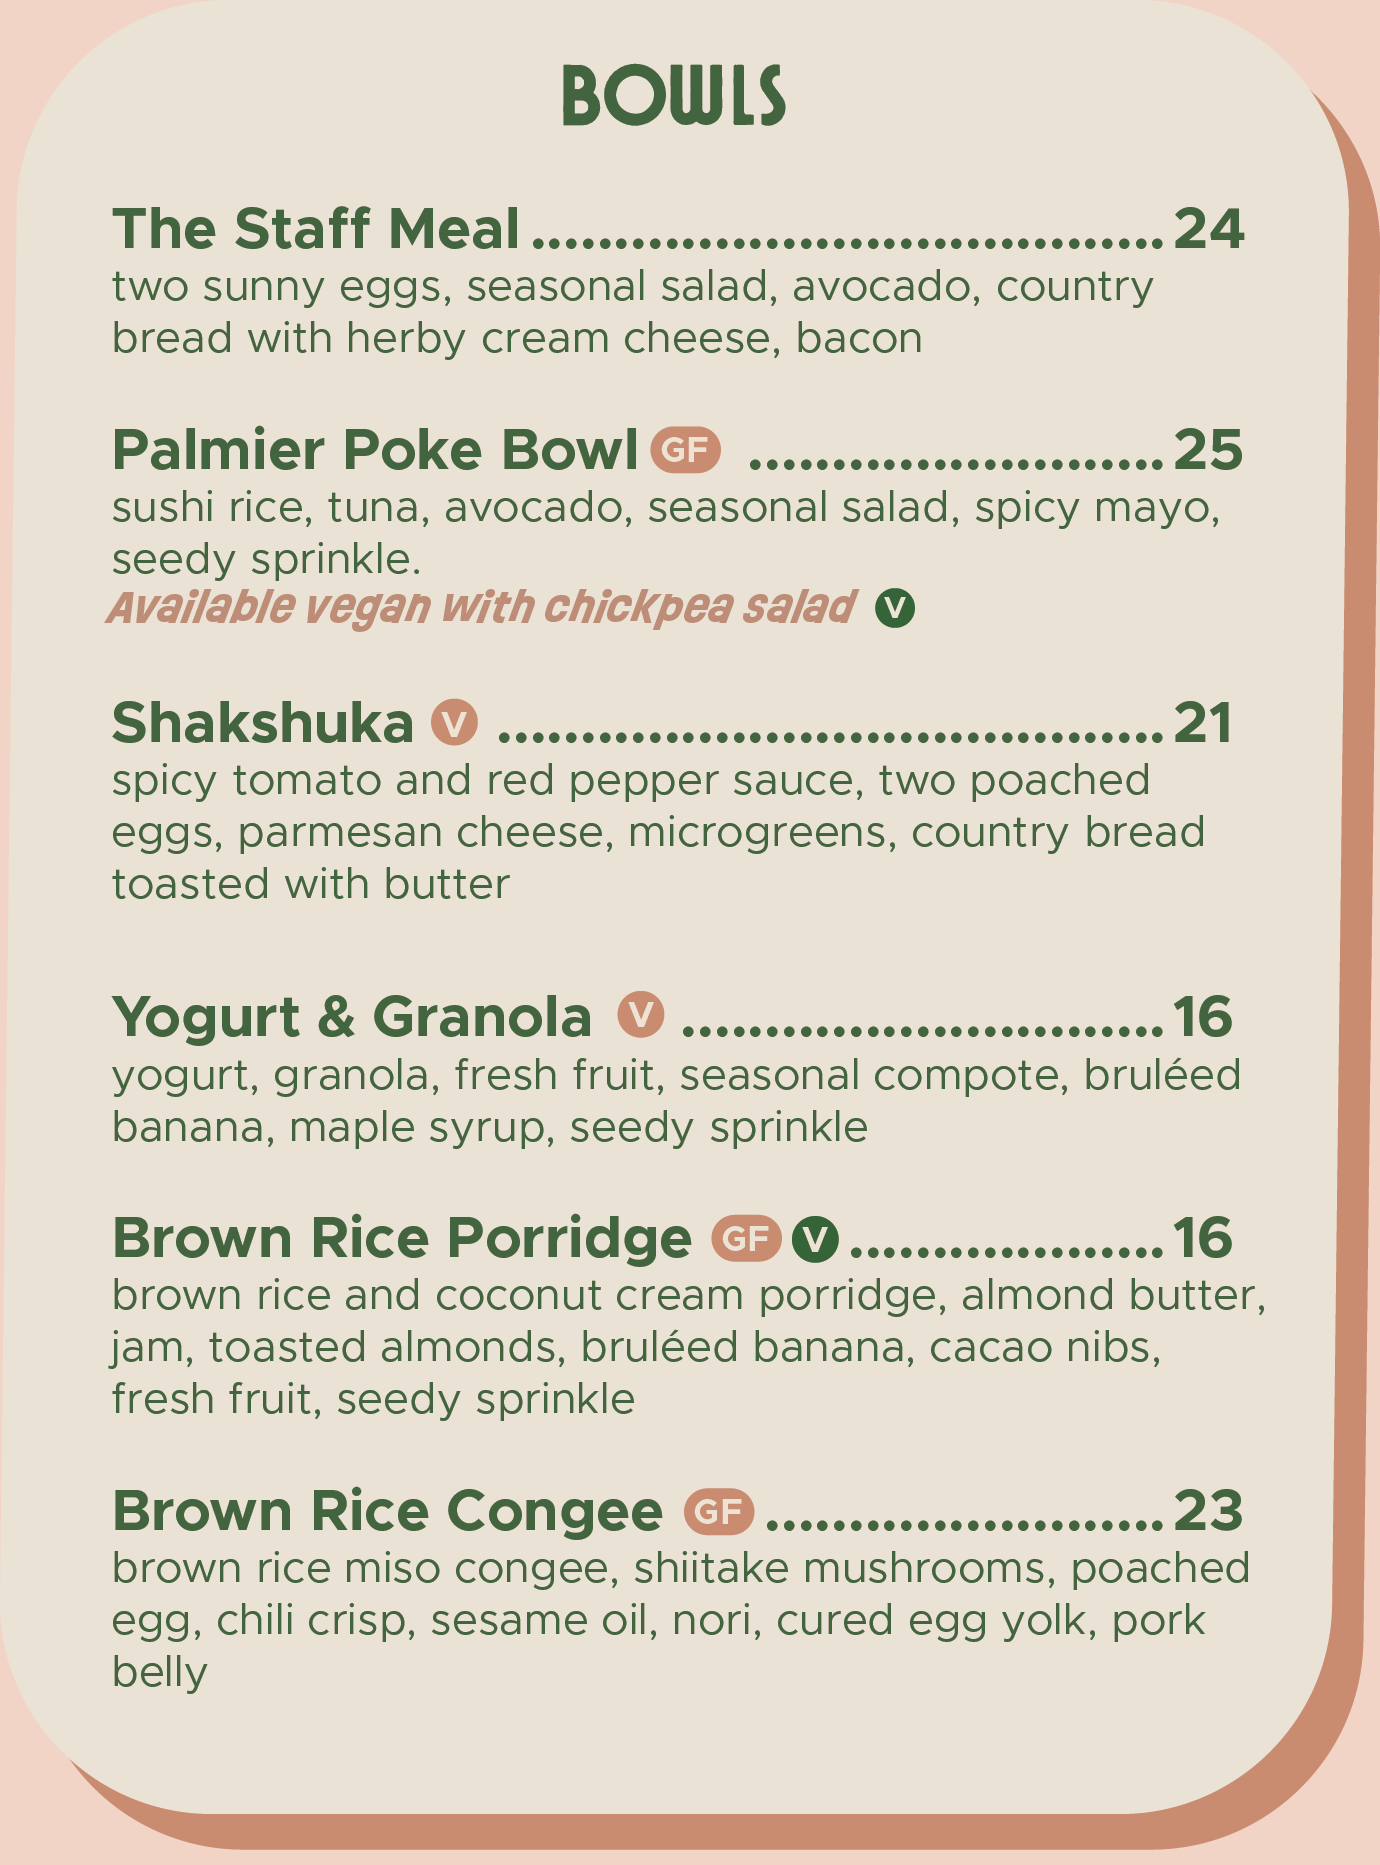
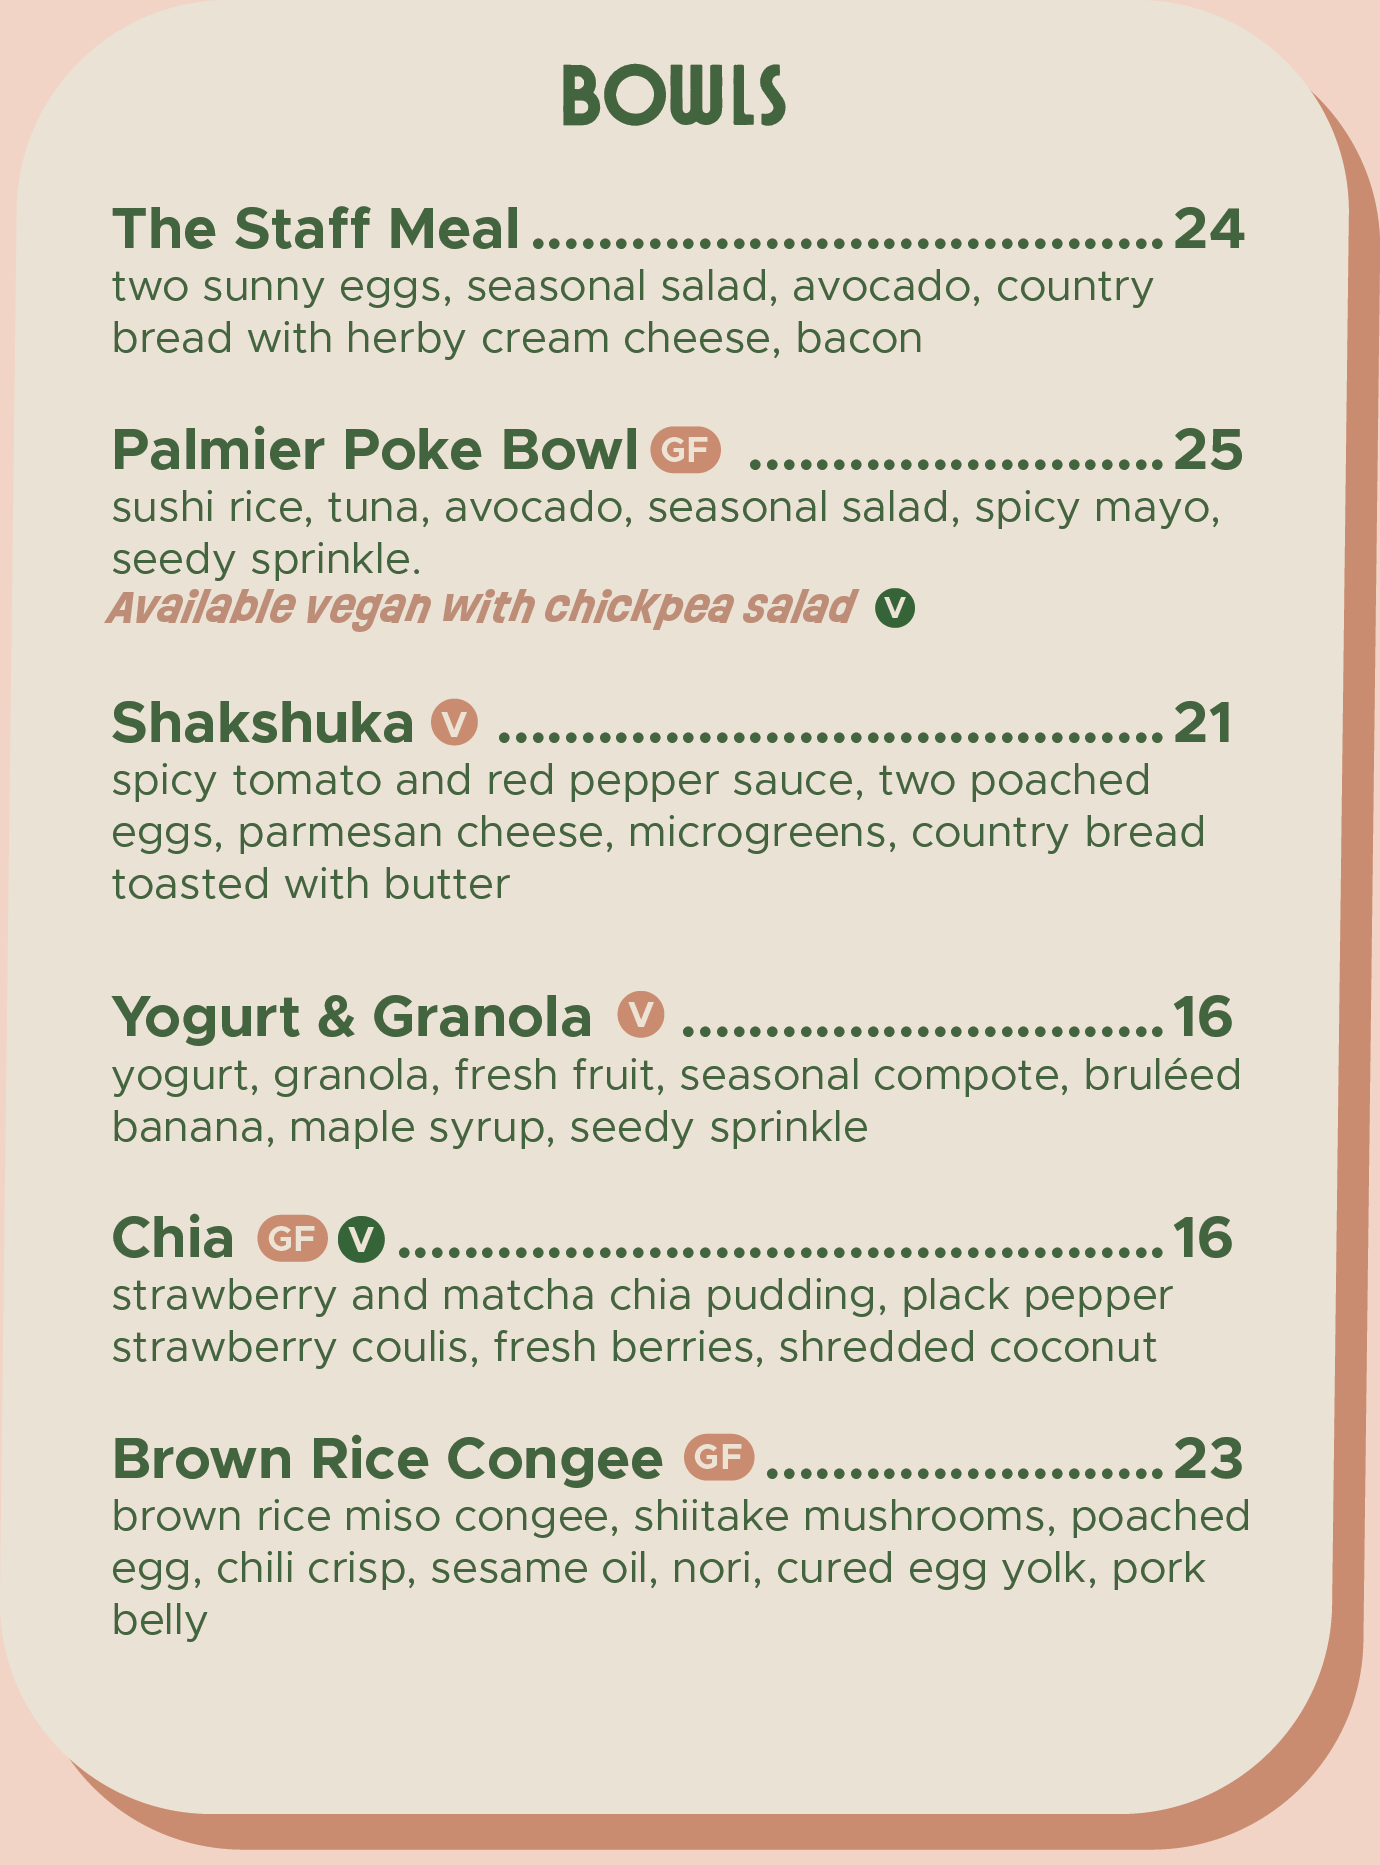
a

Changed region(s): [[0.0623, 0.6531, 0.9036, 0.9019]]

diff --git a/style.css b/style.css
@@ -1405,19 +1405,27 @@ html { overflow-x: hidden; }
 }
 .coffee-build-bean-name {
   display: block;
+  width: 100%;
+  min-width: 0;
   color: var(--color-green);
   font-family: "ruddy", sans-serif;
   font-size: 0.88rem;
   font-weight: 700;
   line-height: 1.15;
+  white-space: normal;
+  overflow-wrap: break-word;
 }
 .coffee-build-bean-description {
   display: block;
+  width: 100%;
+  min-width: 0;
   color: var(--color-brown);
   font-family: "ruddy", sans-serif;
   font-size: 0.68rem;
   font-weight: 700;
   line-height: 1.18;
+  white-space: normal;
+  overflow-wrap: break-word;
 }
 .coffee-build-bean-dot-night-hawk {
   background: #2f2b28;
@@ -1982,6 +1990,29 @@ html { overflow-x: hidden; }
 
   .coffee-build-bean-description {
     font-size: 0.72rem;
+  }
+
+  .coffee-build-bean-card-options-three {
+    gap: 0.52rem;
+  }
+
+  .coffee-build-bean-card {
+    min-height: 132px;
+    padding: 0.72rem 0.48rem 0.68rem;
+  }
+
+  .coffee-build-bean-card-icon {
+    width: 54px;
+    height: 54px;
+  }
+
+  .coffee-build-bean-name {
+    font-size: 0.74rem;
+    line-height: 1.08;
+  }
+
+  .coffee-build-bean-card.is-active::after {
+    font-size: 0.74rem;
   }
 }
 .cocktails-page .menu-image {
